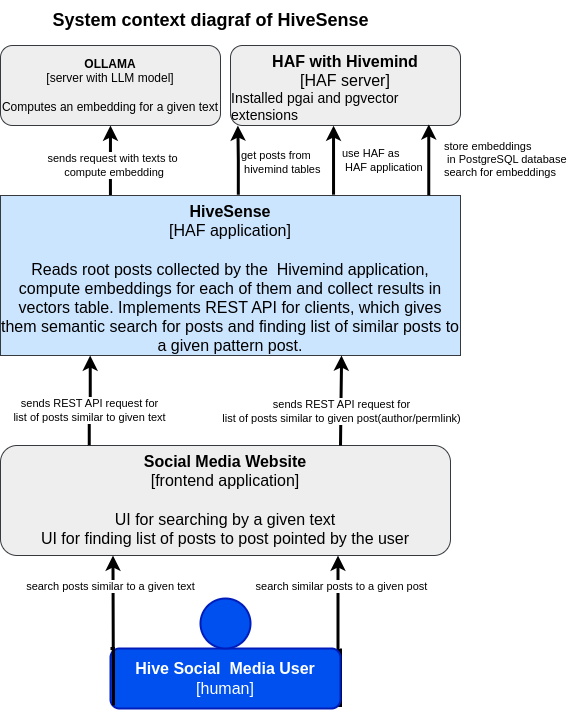
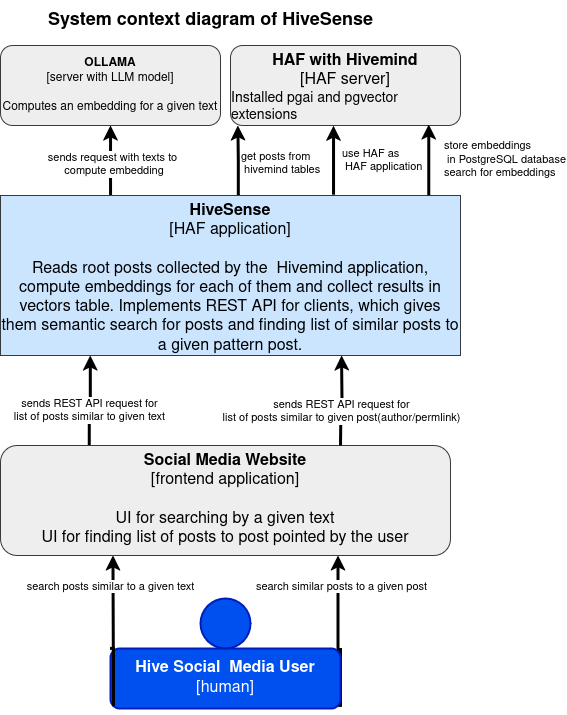
update doc

diff --git a/readme.md b/readme.md
@@ -84,6 +84,11 @@ It must be installed alongside HAF and an already synced Hivemind.
    ./scripts/install_app.sh --llm='bge-m3:latest' --vector_size=1024 \
        --ollama=http://192.168.6.186:11434 --parallel_workers=8
    ```
+   It is possible to start vectorizing post from a given block with using '--start_block'
+   ```bash
+   ./scripts/install_app.sh --llm='bge-m3:latest' --vector_size=1024 \
+       --ollama=http://192.168.6.186:11434 --parallel_workers=8 --start_block=1000000
+   ```
 
 2. **Start synchronization**  
    By default, it will synchronize indefinitely, but you can set a block
